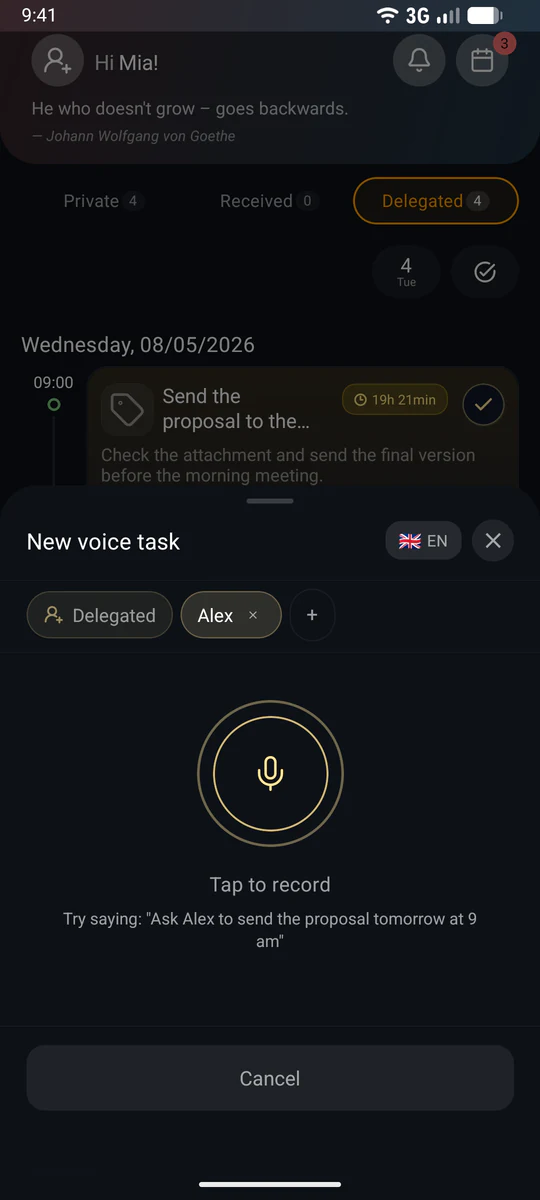
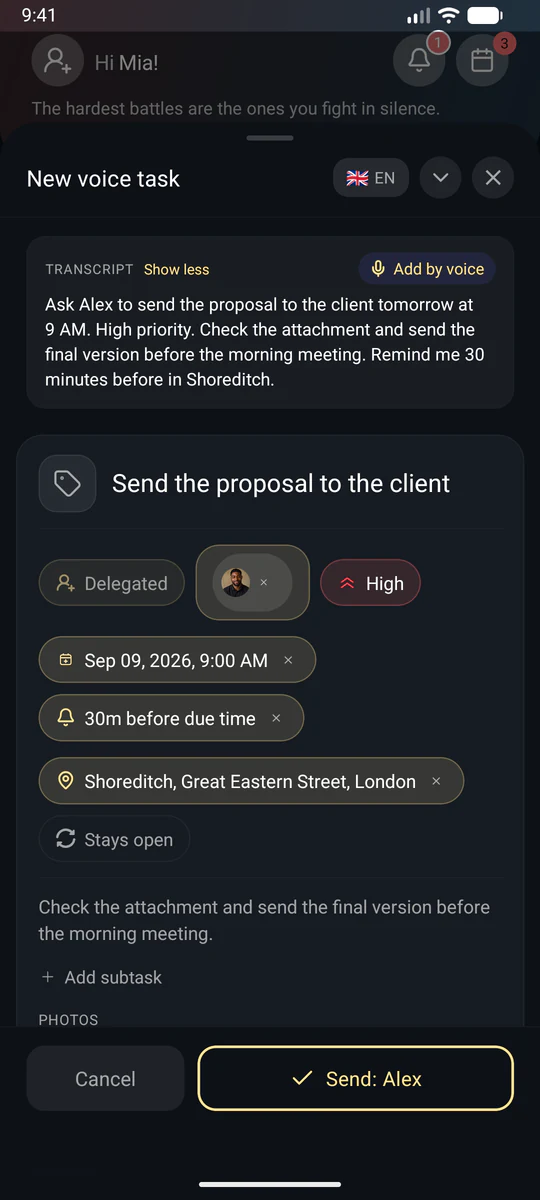
feat(home): kroki zadań na telefonie jako coverflow 3D za palcem (#36)
* feat(home): kroki zadań na telefonie jako coverflow 3D za palcem

Wybór właściciela (27.09) spośród trzech prototypów. Na telefonie każdy
ekran obraca się w przestrzeni (do 42°), maleje i przygasa według swojej
odległości od środka scrollera. Scroller zapisuje ją co klatkę (--place,
--away), więc obrót idzie płynnie za palcem i kończy się z przyciąganiem,
bez osobnej animacji. Pozycje startowe są w HTML, więc przed skryptem
karty nie mrugają płasko. Przy prefers-reduced-motion telefony tylko
maleją i przygasają. Tablet i desktop bez zmian.

Sprawdzone: lint, typecheck, npm test 45/45, build; headless Chrome
320/375/412 px bez poziomego overflow.

* feat(home): ekran 2 kroków to wypełnione zadanie głosowe z Google Play

Na prośbę właściciela 27.09: drugi ekran coverflow (02-assignee, PL i EN)
był prawie taki sam jak pierwszy. Teraz to ten sam obraz, który jest na
żywo w Google Play: arkusz zadania głosowego z transkrypcją, terminem,
przypomnieniem, miejscem, priorytetem i "Wyślij: Olek" / "Send: Alex".

Bajty 1:1 z piotrdomagala/S- bd5d70d56223ffe558fb602e38a69ebaa0b432aa
(gałąź codex/delegation-gallery-adoption-20260908 na origin). Walidator
dopuszcza per-asset sourceCommit tylko z sourceNote. Nowy krok importu
npm run verify:media-sources -- <worktree S-> sprawdza, że każdy commit
źródłowy jest na origin i że plik ma zapisany hash. Pochodne WebP są
wygenerowane pinned pipeline; budżety per plik i per locale w normie.
[…]

diff --git a/components/TaskSpatialHandoff.tsx b/components/TaskSpatialHandoff.tsx
@@ -6,6 +6,7 @@ import {
   useId,
   useRef,
   useState,
+  type CSSProperties,
   type KeyboardEvent as ReactKeyboardEvent,
   type PointerEvent as ReactPointerEvent,
 } from 'react';
@@ -127,7 +128,13 @@ export default function TaskSpatialHandoff({
         let best = Infinity;
         Array.from(list.children).forEach((child, index) => {
           const item = child as HTMLElement;
-          const distance = Math.abs(item.offsetLeft + item.offsetWidth / 2 - centre);
+          const offset = item.offsetLeft + item.offsetWidth / 2 - centre;
+          const distance = Math.abs(offset);
+          // Where the card is against the centre, in card widths: the CSS
+          // turns it in space from that on every frame of the gesture.
+          const place = Math.max(-1.5, Math.min(1.5, offset / item.offsetWidth));
+          item.style.setProperty('--place', place.toFixed(3));
+          item.style.setProperty('--away', Math.min(1, Math.abs(place)).toFixed(3));
           if (distance < best) {
             best = distance;
             nearest = index;
@@ -141,6 +148,7 @@ export default function TaskSpatialHandoff({
     list.addEventListener('scroll', onScroll, { passive: true });
     list.addEventListener('touchstart', onTouch, { passive: true });
     list.addEventListener('wheel', onTouch, { passive: true });
+    onScroll();
     return () => {
       window.cancelAnimationFrame(frame);
       list.removeEventListener('scroll', onScroll);
@@ -231,7 +239,16 @@ export default function TaskSpatialHandoff({
           const screenDescriptionId = `${flowId}-screen-${index}`;
 
           return (
-            <li key={screen.id} className={s.taskFlowItem} data-active={isActive}>
+            <li
+              key={screen.id}
+              className={s.taskFlowItem}
+              data-active={isActive}
+              // the resting places, before the scroller reports its own
+              style={{
+                '--place': Math.min(index, 1.5),
+                '--away': Math.min(index, 1),
+              } as CSSProperties}
+            >
               <button
                 ref={(element) => {
                   screenButtons.current[index] = element;

diff --git a/app/page.module.css b/app/page.module.css
@@ -2213,25 +2213,34 @@
     gap: 4px;
   }
 
+  /*
+   * Coverflow: each phone turns in space by where it is against the centre
+   * (--place, --away, written by the scroller on every frame), so the turn
+   * follows the finger and settles with the snap. No transition: the scroll
+   * itself is the animation.
+   */
   .taskScreenSlot {
     height: 550px;
+    perspective: 900px;
   }
 
   .taskScreenPlane {
     width: min(66vw, 250px);
-    opacity: 0.28;
+    opacity: calc(1 - var(--away, 0) * 0.55);
+    transition: none;
+    will-change: transform, opacity;
   }
 
   .taskFlowItem:nth-child(1) .taskScreenPlane,
   .taskFlowItem:nth-child(2) .taskScreenPlane,
-  .taskFlowItem:nth-child(3) .taskScreenPlane {
-    transform: translate3d(0, 18px, 0) scale(0.88);
-  }
-
+  .taskFlowItem:nth-child(3) .taskScreenPlane,
   .taskFlowItem:nth-child(1)[data-active='true'] .taskScreenPlane,
   .taskFlowItem:nth-child(2)[data-active='true'] .taskScreenPlane,
   .taskFlowItem:nth-child(3)[data-active='true'] .taskScreenPlane {
-    transform: translate3d(0, 0, 70px) scale(1);
+    transform:
+      translateX(calc(var(--place, 0) * -34px))
+      rotateY(calc(var(--place, 0) * -42deg))
+      scale(calc(1 - var(--away, 0) * 0.14));
   }
 
   .taskStepCopy {
@@ -2581,5 +2590,13 @@
 
   .groupModuleLine {
     font-size: 0.62rem;
+  }
+}
+
+/* Reduced motion: the phones still dim and shrink away, but do not turn. */
+@media (max-width: 720px) and (prefers-reduced-motion: reduce) {
+  .taskFlowItem .taskScreenPlane,
+  .taskFlowItem[data-active='true'] .taskScreenPlane {
+    transform: scale(calc(1 - var(--away, 0) * 0.14)) !important;
   }
 }

diff --git a/docs/PRODUCT-MEDIA-INTEGRATION.md b/docs/PRODUCT-MEDIA-INTEGRATION.md
@@ -50,6 +50,19 @@ the owner found the pulse unattractive; the file stays) is an exact copy of
 `store-listing/assets/brand/golden-relay-transparent-2048x256.png`, SHA-256
[1 lines of base64/hex data omitted]
 
+One capture may cite its own S- commit instead of the preview source commit:
+the asset then carries `sourceCommit` (lowercase 40-character SHA) and
+`sourceNote` (why), and the validator requires both together. Since 27.09.2026
+the `assignee` pair (`02-assignee` PL and EN, the filled voice task review that
+is live on Google Play) comes from `bd5d70d56223ffe558fb602e38a69ebaa0b432aa` on
+`codex/delegation-gallery-adoption-20260908`, at the owner's request; once that
+gallery is merged to main the pair moves to the main commit. The site's CI
+cannot read the private app repository, so every import runs, from inside an S-
+worktree, `node <path to this site>/scripts/verify-product-media-sources.mjs`: it
+fetches origin and
+checks that each source commit is on origin and that the file at
+`sourceArtifactEntry` in it has exactly `sourceSha256`.
+
 This checked-in set is an owner-attested website preview, not the final store
 artifact binding. `artifactBinding` therefore remains `null`, and
 `finalArtifactContract.status` remains `awaiting-approved-no-publish-package`.

diff --git a/design-qa.md b/design-qa.md
@@ -68,10 +68,13 @@ czemu kontrast małego kickera i opisu spełnia WCAG AA.
 - Desktop - trzy płaszczyzny tworzą jedną scenę z aktywnym ekranem na pierwszym
   planie.
 - Tablet - scena kompresuje się bez kolizji podpisów.
-- Mobile - poziomy scroller ze `scroll-snap` pokazuje jeden centralny ekran,
-  sąsiednie wystają przy krawędziach (11 px przy 320, 29 px przy 412), aktywny
-  krok wynika z pozycji przewijania. Scroller nie dodaje poziomego scrolla
-  dokumentu i ma zapas u góry na uniesiony telefon.
+- Mobile - poziomy scroller ze `scroll-snap` w układzie coverflow (wybór
+  właściciela 27.09.2026): każdy telefon obraca się w przestrzeni (do 42°),
+  maleje i przygasa według swojej odległości od środka, klatka po klatce razem z
+  palcem, bez osobnej animacji. Sąsiednie wystają przy krawędziach (12 px przy
+  320, 23 px przy 412), aktywny krok wynika z pozycji przewijania. Przy
+  `prefers-reduced-motion` telefony się nie obracają. Scroller nie dodaje
+  poziomego scrolla dokumentu.
 - Product Depth - przy szerokości 320-390 px zestawienie iPad + telefon ma budżet
   `100vw - 72px`, odpowiadający paddingowi rozdziału i figury. Nie polega na
   ucinaniu overflow.
